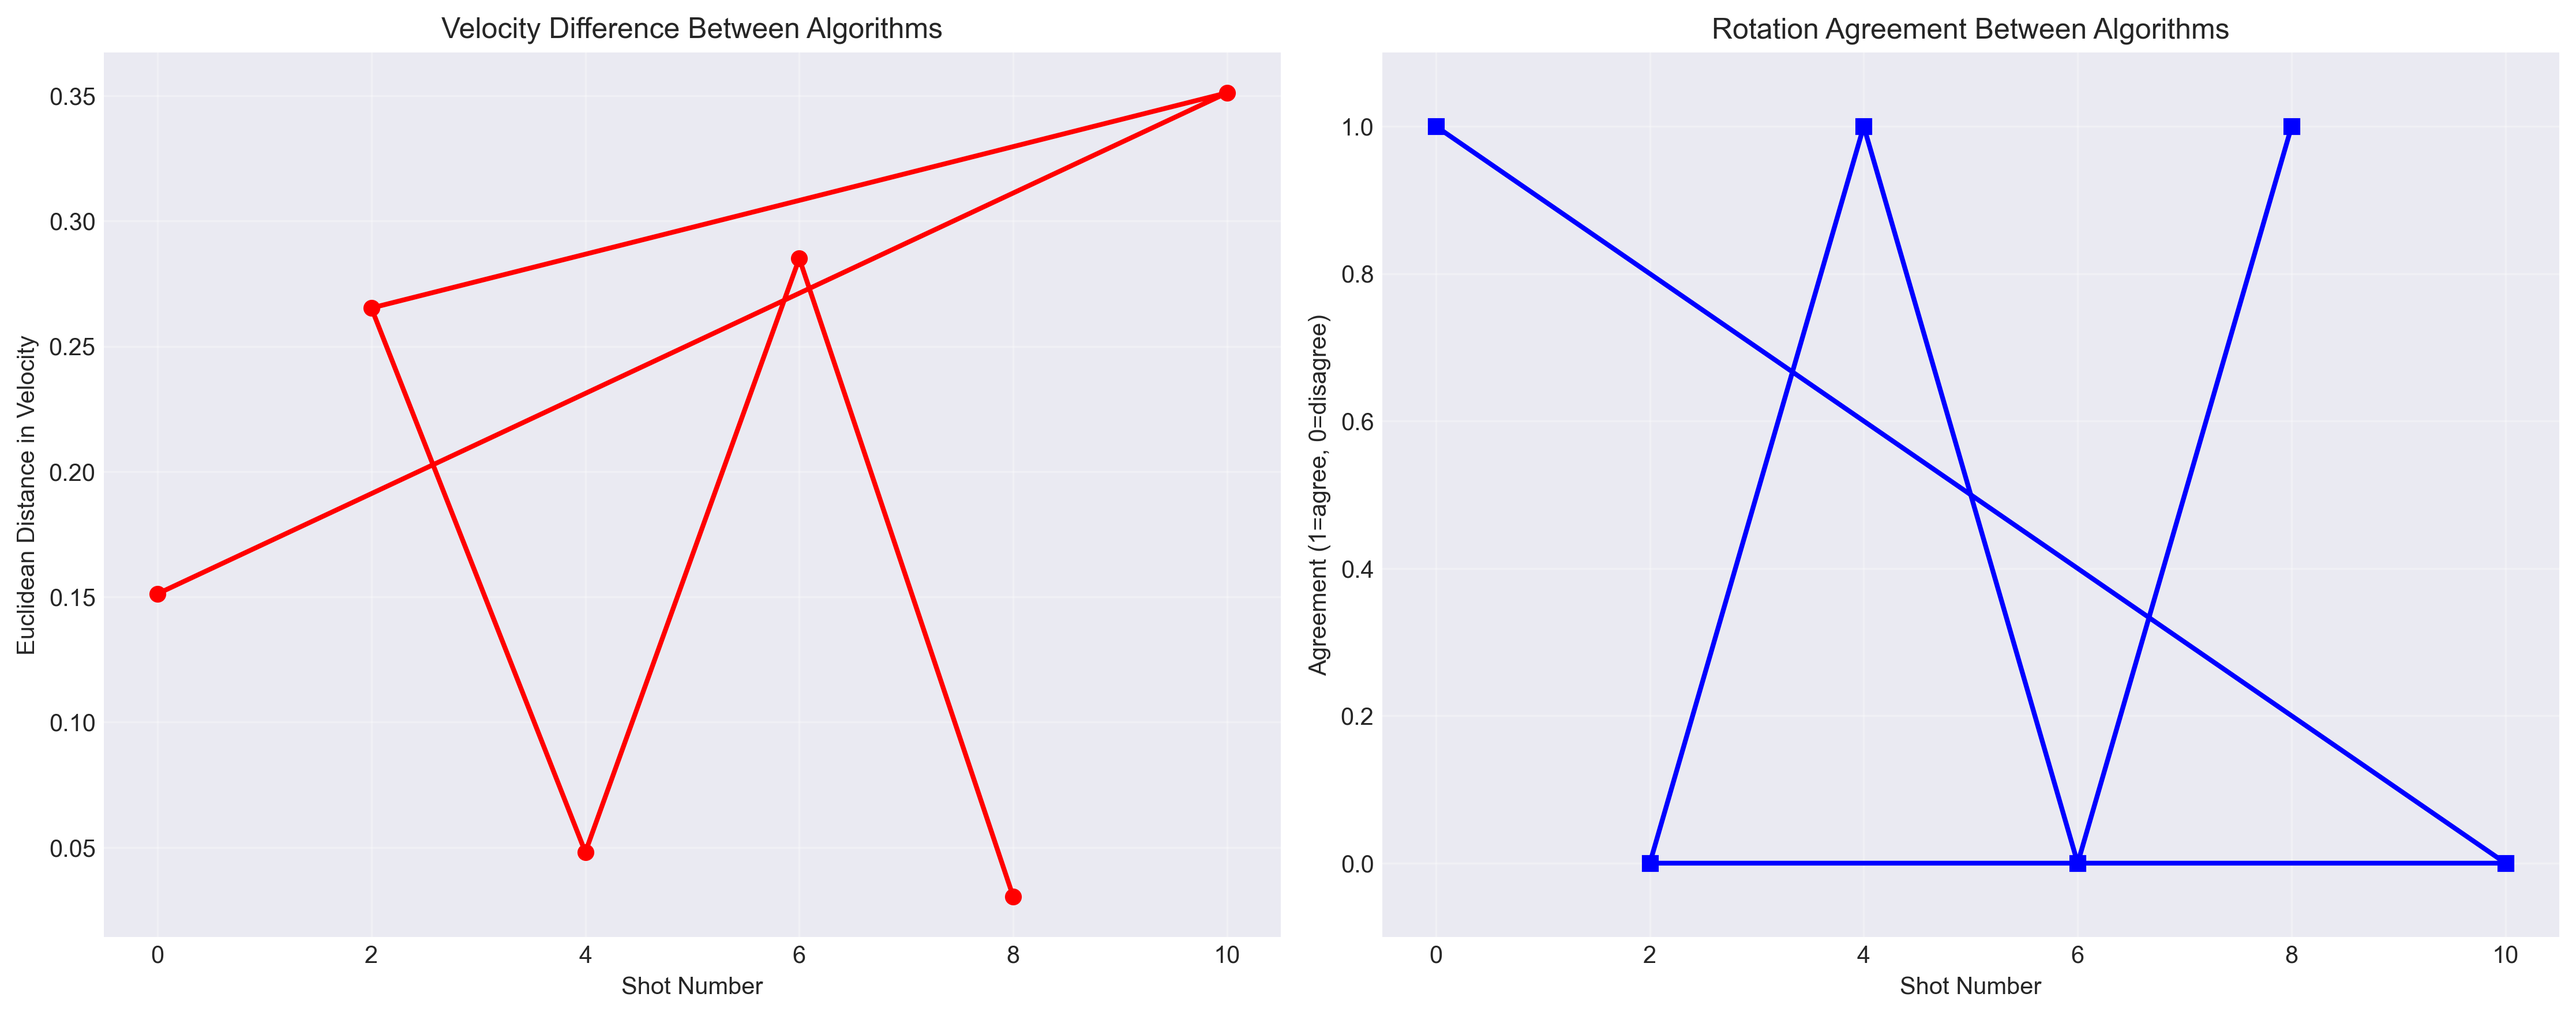
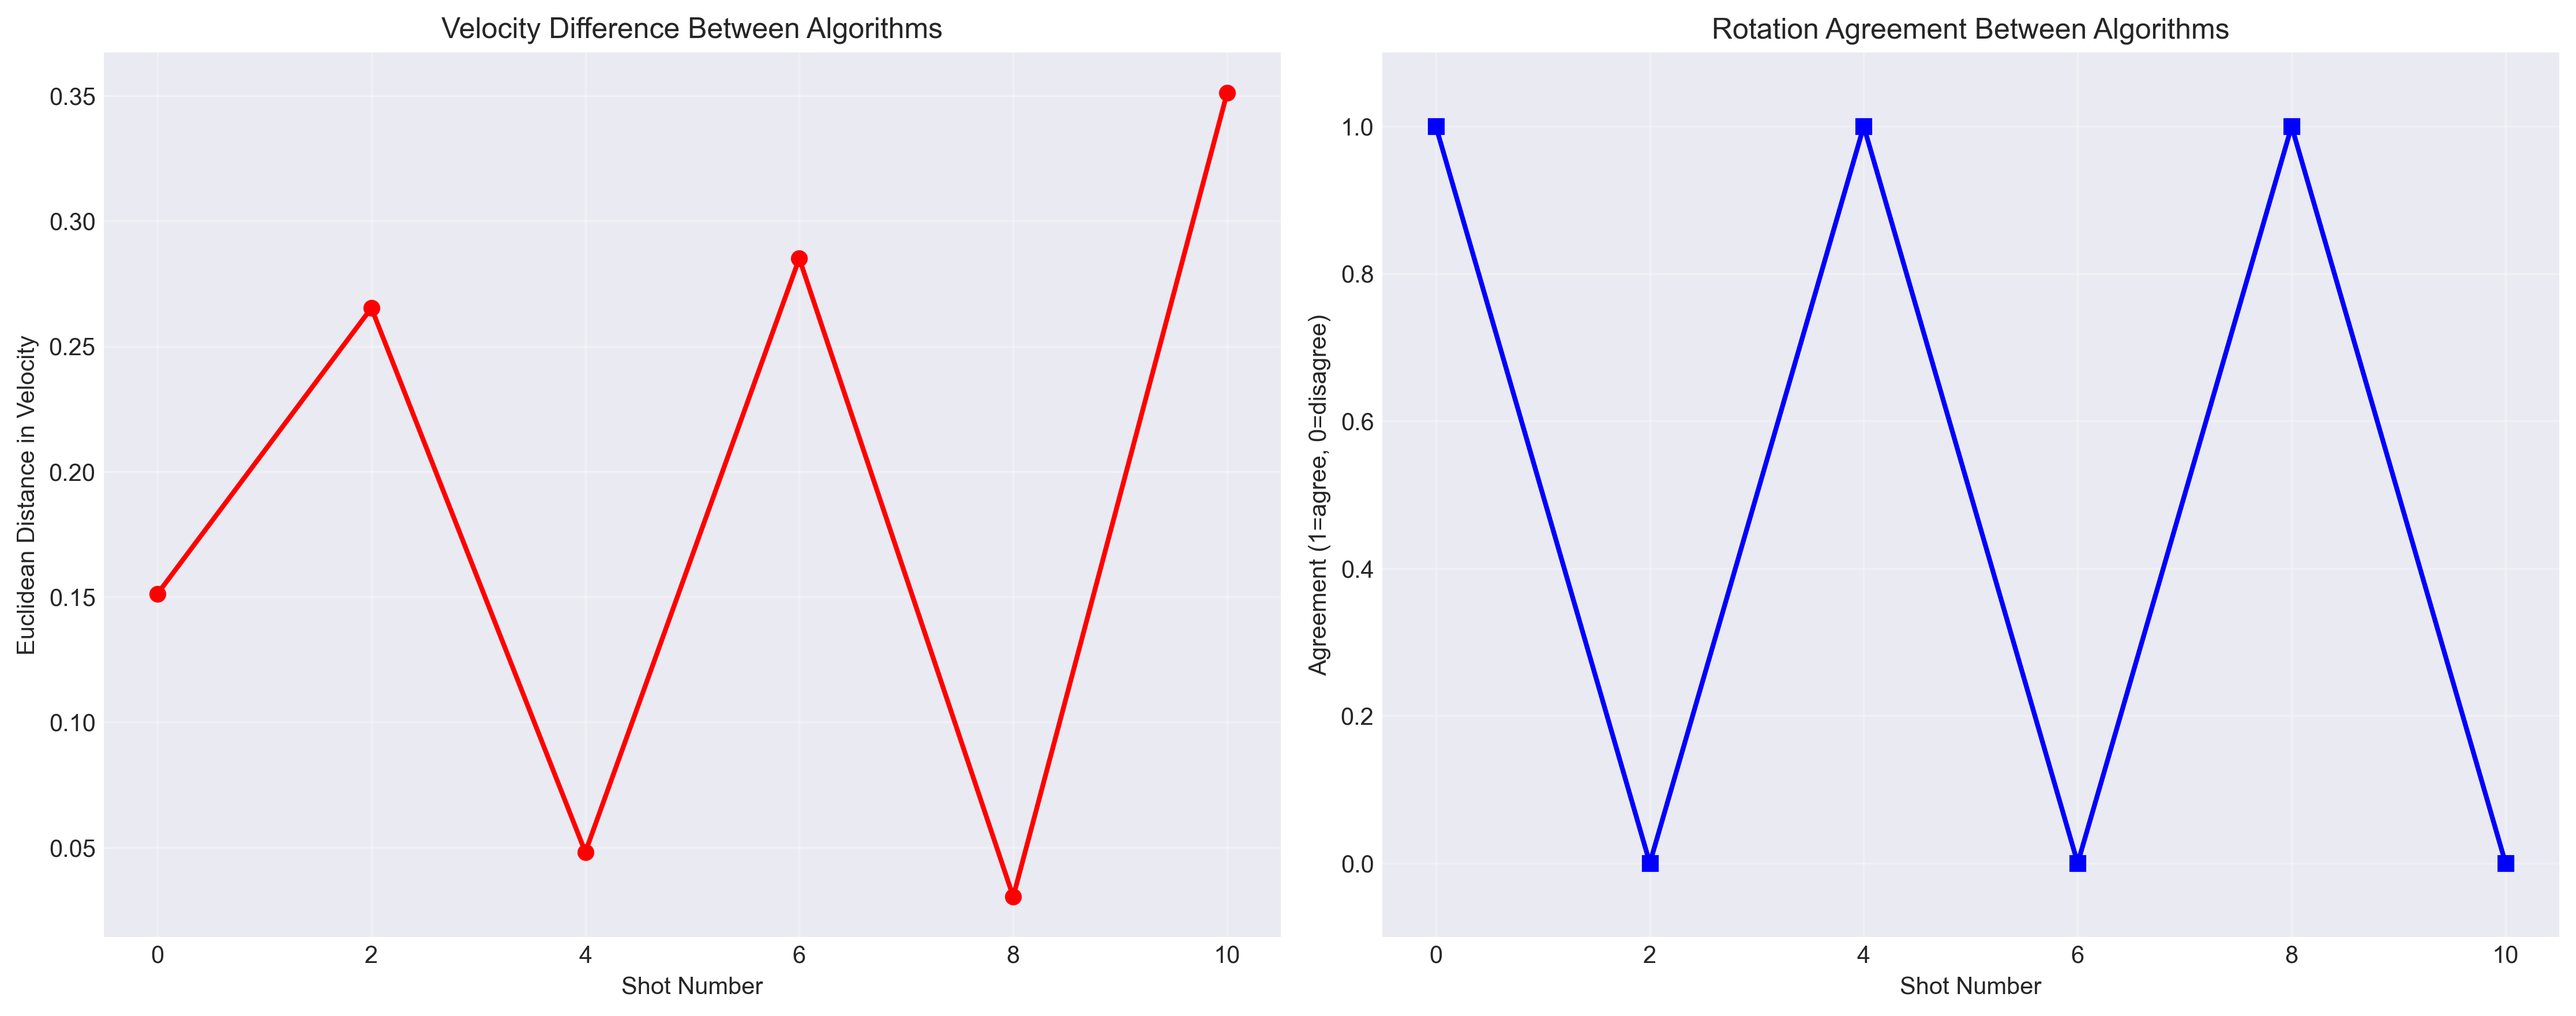
modified: plotting label

diff --git a/python/__claude__/predictive_accuracy_analyzer.py b/python/__claude__/predictive_accuracy_analyzer.py
@@ -34,7 +34,7 @@ warnings.filterwarnings('ignore')
 class PredictiveAccuracyAnalyzer:
     """Analyze predictive accuracy of MCTS algorithms in curling AI."""
 
-    def __init__(self, base_path: str = "../remote_log"):
+    def __init__(self, base_path: str = "../../remote_log"):
         """
         Initialize the predictive accuracy analyzer.
 
@@ -527,7 +527,7 @@ class PredictiveAccuracyAnalyzer:
 
             # Score variance over time
             for algo in consistency_data['algorithm'].unique():
-                algo_data = consistency_data[consistency_data['algorithm'] == algo]
+                algo_data = consistency_data[consistency_data['algorithm'] == algo].sort_values('shot_number')
                 axes[0,0].plot(algo_data['shot_number'], algo_data['score_variance'],
                               marker='o', label=algo, linewidth=2)
 
@@ -539,7 +539,7 @@ class PredictiveAccuracyAnalyzer:
 
             # Prediction confidence over time
             for algo in consistency_data['algorithm'].unique():
-                algo_data = consistency_data[consistency_data['algorithm'] == algo]
+                algo_data = consistency_data[consistency_data['algorithm'] == algo].sort_values('shot_number')
                 axes[0,1].plot(algo_data['shot_number'], algo_data['prediction_confidence'],
                               marker='s', label=algo, linewidth=2)
 
@@ -551,7 +551,7 @@ class PredictiveAccuracyAnalyzer:
 
             # Win rate predictions
             for algo in consistency_data['algorithm'].unique():
-                algo_data = consistency_data[consistency_data['algorithm'] == algo]
+                algo_data = consistency_data[consistency_data['algorithm'] == algo].sort_values('shot_number')
                 axes[1,0].plot(algo_data['shot_number'], algo_data['win_rate'],
                               marker='^', label=algo, linewidth=2)
 
@@ -563,7 +563,7 @@ class PredictiveAccuracyAnalyzer:
 
             # Coefficient of variation (stability indicator)
             for algo in consistency_data['algorithm'].unique():
-                algo_data = consistency_data[consistency_data['algorithm'] == algo]
+                algo_data = consistency_data[consistency_data['algorithm'] == algo].sort_values('shot_number')
                 axes[1,1].plot(algo_data['shot_number'], algo_data['score_cv'],
                               marker='d', label=algo, linewidth=2)
 
@@ -585,7 +585,8 @@ class PredictiveAccuracyAnalyzer:
             fig, axes = plt.subplots(1, 2, figsize=(15, 6))
 
             # Velocity difference over time
-            axes[0].plot(agreement_data['shot_number'], agreement_data['velocity_difference'],
+            agreement_data_sorted = agreement_data.sort_values('shot_number')
+            axes[0].plot(agreement_data_sorted['shot_number'], agreement_data_sorted['velocity_difference'],
                         marker='o', linewidth=2, color='red')
             axes[0].set_title('Velocity Difference Between Algorithms')
             axes[0].set_xlabel('Shot Number')
@@ -593,7 +594,7 @@ class PredictiveAccuracyAnalyzer:
             axes[0].grid(True, alpha=0.3)
 
             # Rotation agreement over time
-            axes[1].plot(agreement_data['shot_number'], agreement_data['rotation_agreement'],
+            axes[1].plot(agreement_data_sorted['shot_number'], agreement_data_sorted['rotation_agreement'],
                         marker='s', linewidth=2, color='blue')
             axes[1].set_title('Rotation Agreement Between Algorithms')
             axes[1].set_xlabel('Shot Number')
@@ -613,7 +614,7 @@ class PredictiveAccuracyAnalyzer:
 
             # Average score trends
             for algo in temporal_data['algorithm'].unique():
-                algo_data = temporal_data[temporal_data['algorithm'] == algo]
+                algo_data = temporal_data[temporal_data['algorithm'] == algo].sort_values('shot_window_end')
                 axes[0,0].plot(algo_data['shot_window_end'], algo_data['avg_score'],
                               marker='o', label=algo, linewidth=2)
 
@@ -625,7 +626,7 @@ class PredictiveAccuracyAnalyzer:
 
             # Score stability trends
             for algo in temporal_data['algorithm'].unique():
-                algo_data = temporal_data[temporal_data['algorithm'] == algo]
+                algo_data = temporal_data[temporal_data['algorithm'] == algo].sort_values('shot_window_end')
                 axes[0,1].plot(algo_data['shot_window_end'], algo_data['score_stability'],
                               marker='s', label=algo, linewidth=2)
 
@@ -655,7 +656,7 @@ class PredictiveAccuracyAnalyzer:
 
             # Win rate trends
             for algo in temporal_data['algorithm'].unique():
-                algo_data = temporal_data[temporal_data['algorithm'] == algo]
+                algo_data = temporal_data[temporal_data['algorithm'] == algo].sort_values('shot_window_end')
                 axes[1,1].plot(algo_data['shot_window_end'], algo_data['win_rate'],
                               marker='^', label=algo, linewidth=2)
 
@@ -677,7 +678,7 @@ class PredictiveAccuracyAnalyzer:
 
             # Prediction uncertainty over time
             for algo in error_data['algorithm'].unique():
-                algo_data = error_data[error_data['algorithm'] == algo]
+                algo_data = error_data[error_data['algorithm'] == algo].sort_values('shot_number')
                 axes[0,0].plot(algo_data['shot_number'], algo_data['prediction_uncertainty'],
                               marker='o', label=algo, linewidth=2)
 
@@ -689,7 +690,7 @@ class PredictiveAccuracyAnalyzer:
 
             # Velocity diversity
             for algo in error_data['algorithm'].unique():
-                algo_data = error_data[error_data['algorithm'] == algo]
+                algo_data = error_data[error_data['algorithm'] == algo].sort_values('shot_number')
                 axes[0,1].plot(algo_data['shot_number'], algo_data['velocity_diversity'],
                               marker='s', label=algo, linewidth=2)
 
@@ -701,7 +702,7 @@ class PredictiveAccuracyAnalyzer:
 
             # Rotation bias
             for algo in error_data['algorithm'].unique():
-                algo_data = error_data[error_data['algorithm'] == algo]
+                algo_data = error_data[error_data['algorithm'] == algo].sort_values('shot_number')
                 axes[1,0].plot(algo_data['shot_number'], algo_data['rotation_bias'],
                               marker='^', label=algo, linewidth=2)
 
@@ -713,7 +714,7 @@ class PredictiveAccuracyAnalyzer:
 
             # Low visit ratio
             for algo in error_data['algorithm'].unique():
-                algo_data = error_data[error_data['algorithm'] == algo]
+                algo_data = error_data[error_data['algorithm'] == algo].sort_values('shot_number')
                 axes[1,1].plot(algo_data['shot_number'], algo_data['low_visit_ratio'],
                               marker='d', label=algo, linewidth=2)
 
